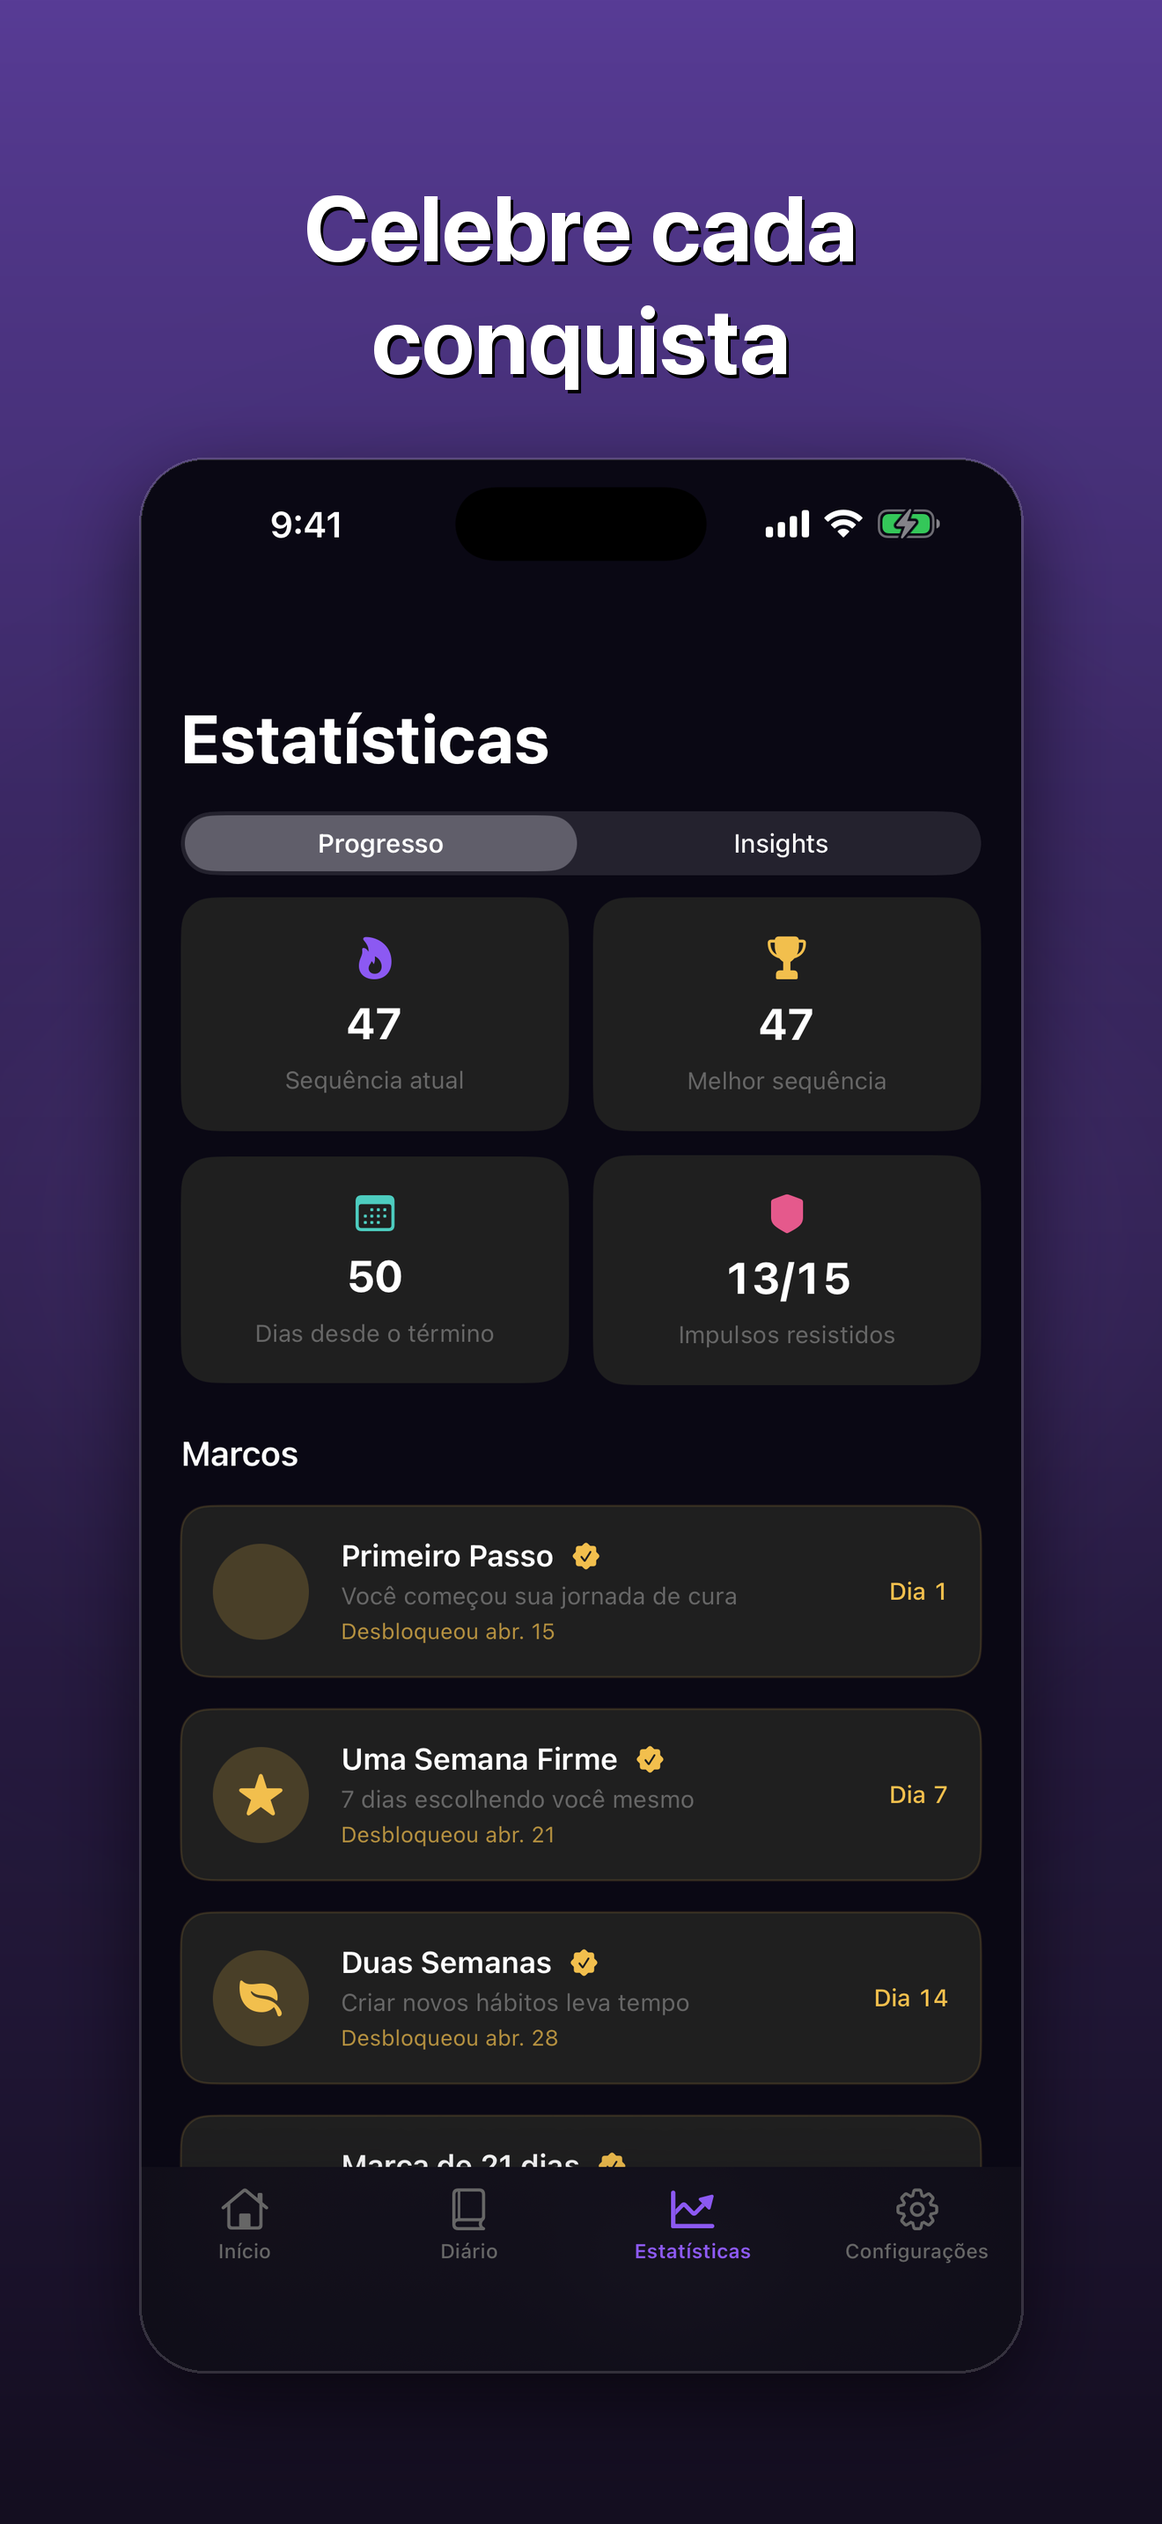
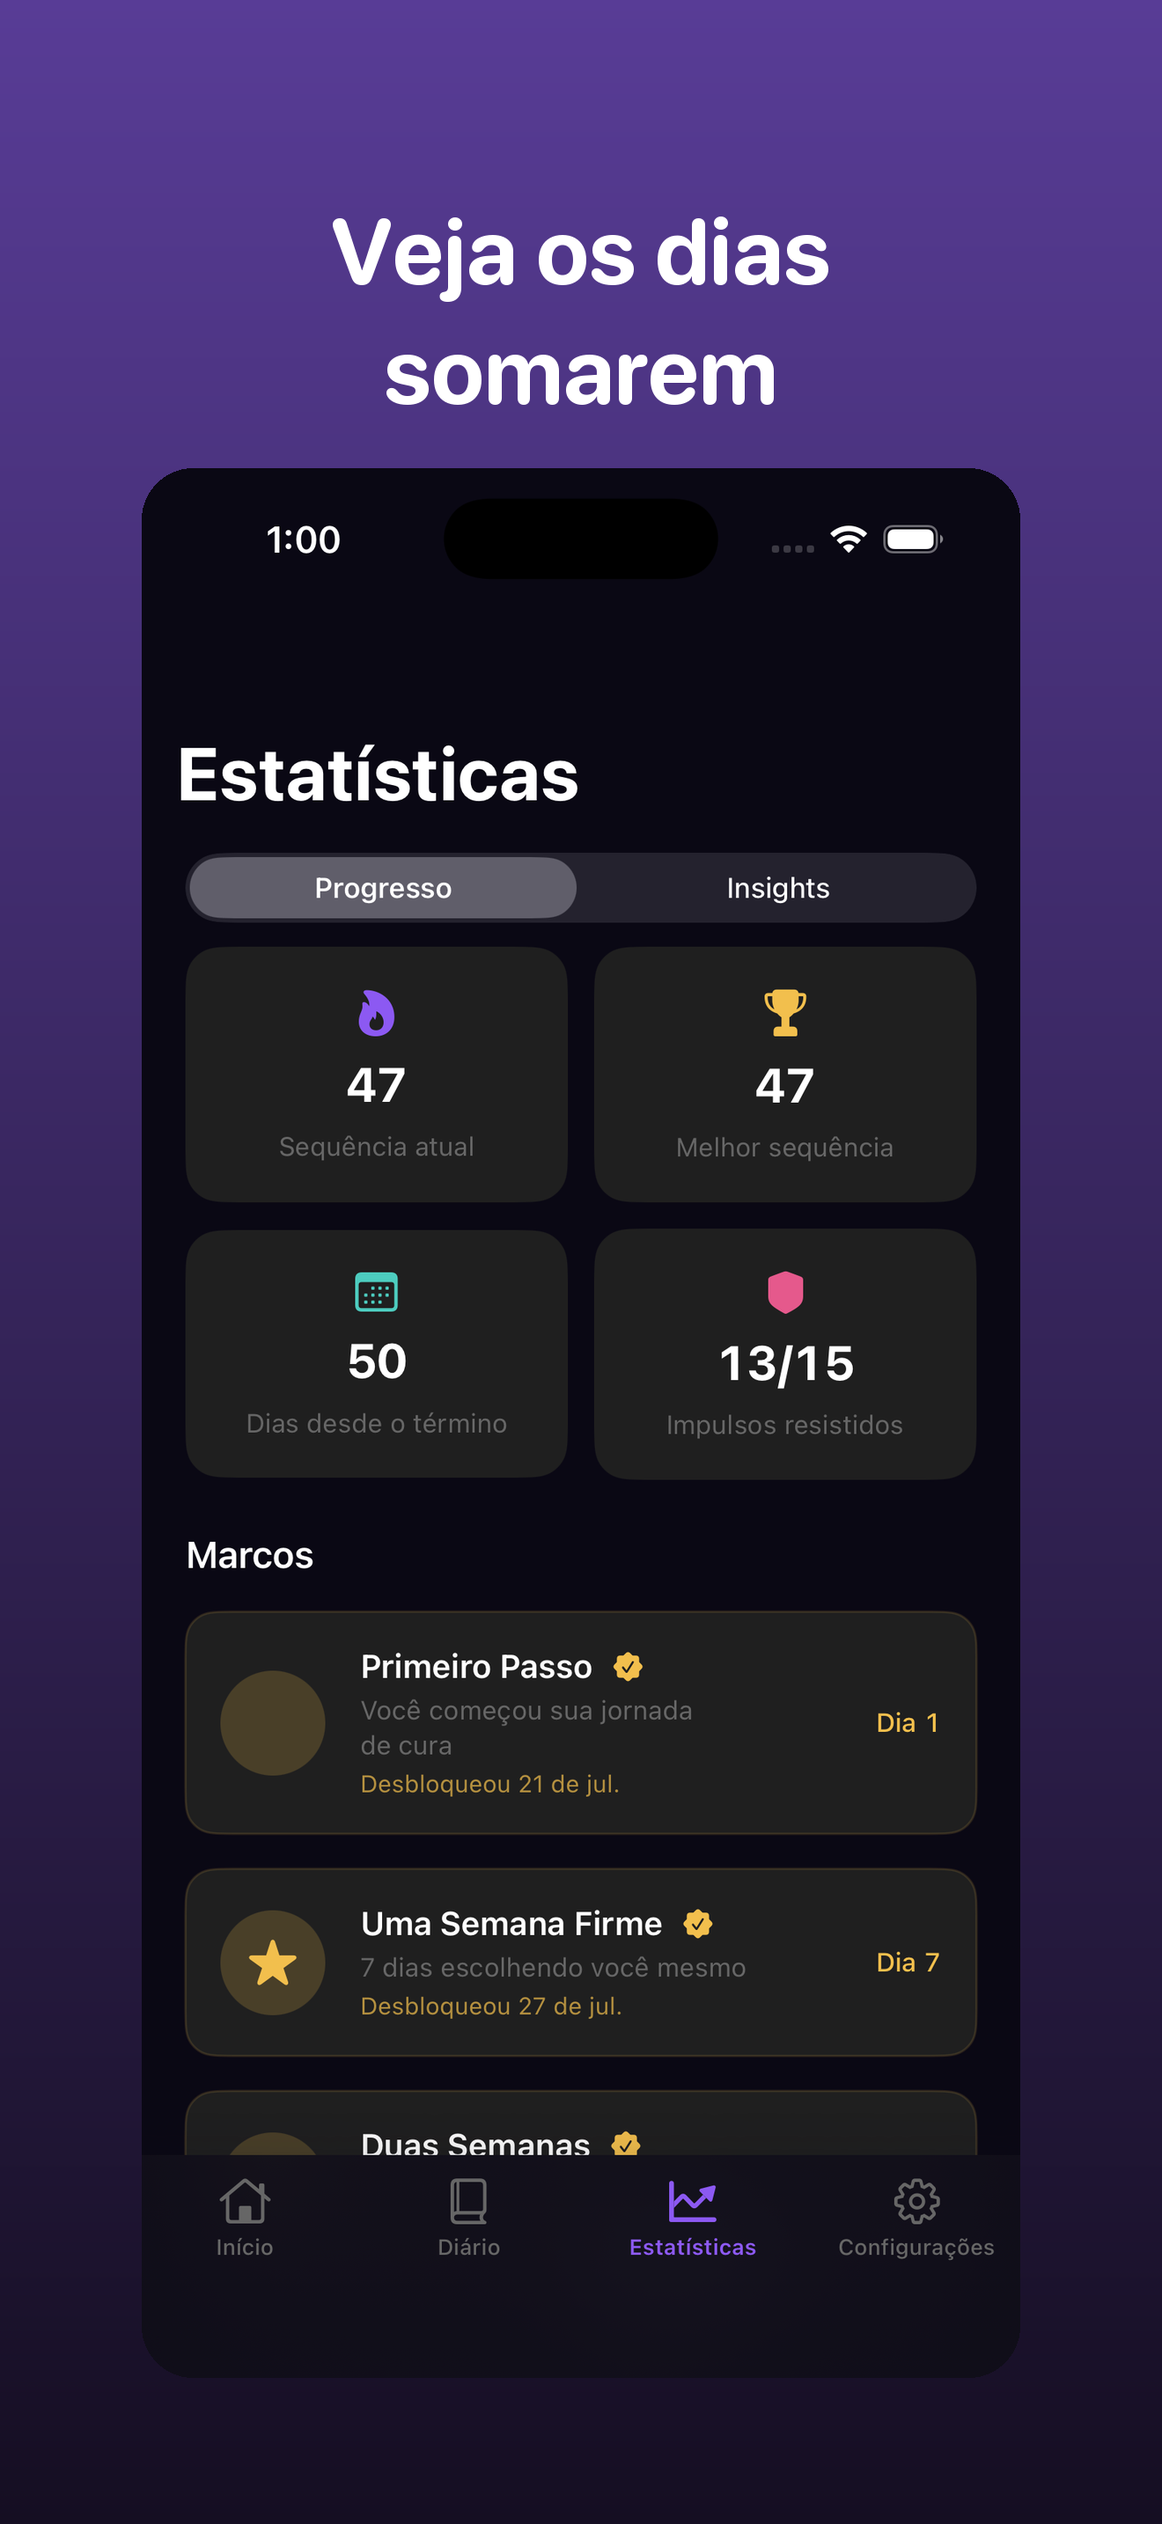
1.4 (build 12): 7-day free trial, review prompts that actually fire, new ar/pt-BR artwork
Trial: all 525 introductory offers (3 products x 175 territories) moved from
THREE_DAYS to ONE_WEEK in App Store Connect. Every US trial to date cancelled on
day 3 — the exact day the trial ended — while Heal's first milestone is day 7, so
the trial was expiring before the product could prove anything. The paywall reads
the trial length live from StoreKit, so no copy changes were needed.

Review prompts: badgeUnlocked and levelUp were added to ReviewPrompter.Moment in
1.3 but never called from anywhere — two of six moments were dead code. Both are
now wired into GamificationOverlay, which is mounted on the tab bar and therefore
has a stable scene to present in. The SOS and journal call sites asked for a review
immediately before dismissing themselves, and requestReview is a no-op while the
presenting scene is going away; they now defer past the dismissal. The global floor
dropped from streakDays >= 2 to >= 1, which was disqualifying earned moments users
hit on their first day. Decisions are logged and counted locally (Log.reviews plus
a DEBUG Settings row) so "the prompts never fire" is answerable rather than a guess.
No field telemetry was added — that would mean a third-party analytics SDK.

Screenshots: ar-SA and pt-BR drew 152 impressions and zero page views over 14 days
with headlines that stated a mood rather than the proposition. Both sets recaptured
and recomposited with concrete copy. compose.py now shapes Arabic (arabic_reshaper
[…]

diff --git a/HealNoContact/Services/ReviewPrompter.swift b/HealNoContact/Services/ReviewPrompter.swift
@@ -4,9 +4,18 @@ import SwiftUI
 
 /// Decides *when* to ask for an App Store rating. iOS already throttles to ~3 prompts a year;
 /// this adds our own judgment: only after a genuinely good moment (resisted urge, milestone),
-/// never in the first two days, and never more than once every 14 days.
+/// never on a user's very first day, and never more than once every 14 days.
+///
+/// Instrumentation note (2026-09-05): after five weeks live the app had exactly one rating,
+/// so every decision this type makes is now logged and counted locally. `Log.reviews` shows
+/// the decision on a device you control; `diagnostics` exposes the running tally so a DEBUG
+/// build can display it. There is deliberately no field telemetry here — measuring this on
+/// other people's devices would mean adding a third-party analytics SDK, which we have not.
 enum ReviewPrompter {
     private static let lastPromptKey = "review.lastPromptDate"
+    private static let attemptsKey   = "review.attempts"
+    private static let firedKey      = "review.fired"
+    private static let lastSkipKey   = "review.lastSkipReason"
     private static let minDaysBetweenPrompts = 14
 
     enum Moment {
@@ -16,11 +25,51 @@ enum ReviewPrompter {
         case badgeUnlocked(rarity: String)
         case journalEntries(count: Int)
         case levelUp(level: Int)
+
+        var label: String {
+            switch self {
+            case .resistedUrge:            return "resistedUrge"
+            case .milestone(let d):        return "milestone(\(d))"
+            case .checkInStreak(let d):    return "checkInStreak(\(d))"
+            case .badgeUnlocked(let r):    return "badgeUnlocked(\(r))"
+            case .journalEntries(let n):   return "journalEntries(\(n))"
+            case .levelUp(let l):          return "levelUp(\(l))"
+            }
+        }
+    }
+
+    /// Why a prompt did or didn't happen. Recorded so "the prompts never fire" is a
+    /// question we can answer instead of guess at.
+    enum Outcome: String {
+        case requested          // we called requestReview (iOS may still suppress it)
+        case tooEarly           // user hasn't reached day 1 of a streak
+        case notWorthy          // moment didn't clear its own bar
+        case throttled          // inside our own 14-day window
+    }
+
+    /// The screenshot harness seeds a 47-day streak, which is by definition a worthy
+    /// moment — so every capture run got a rating dialog over the artwork. Never ask
+    /// during a demo capture.
+    private static var isDemoCapture: Bool {
+        UserDefaults.standard.bool(forKey: "seedDemo")
     }
 
     @MainActor
     static func maybeRequest(_ request: RequestReviewAction, moment: Moment, streakDays: Int) {
-        guard streakDays >= 2 else { return }
+        guard !isDemoCapture else { return }
+        let d = UserDefaults.standard
+        d.set(d.integer(forKey: attemptsKey) + 1, forKey: attemptsKey)
+
+        func skip(_ outcome: Outcome) {
+            d.set(outcome.rawValue, forKey: lastSkipKey)
+            Log.reviews.debug("skip \(moment.label, privacy: .public) — \(outcome.rawValue, privacy: .public)")
+        }
+
+        // Day 0 is too soon to ask, but day 1 is not: most people who ever come back
+        // come back within a day or two, and the old `>= 2` floor silently disqualified
+        // every earned moment they hit before then.
+        guard streakDays >= 1 else { return skip(.tooEarly) }
+
         let worthy: Bool
         switch moment {
         case .resistedUrge:            worthy = streakDays >= 3
@@ -30,13 +79,39 @@ enum ReviewPrompter {
         case .journalEntries(let n):   worthy = [5, 10, 25, 50].contains(n)
         case .levelUp(let level):      worthy = level >= 3
         }
-        guard worthy else { return }
-        if let last = UserDefaults.standard.object(forKey: lastPromptKey) as? Date,
+        guard worthy else { return skip(.notWorthy) }
+
+        if let last = d.object(forKey: lastPromptKey) as? Date,
            Calendar.current.dateComponents([.day], from: last, to: .now).day ?? 0 < minDaysBetweenPrompts {
-            return
+            return skip(.throttled)
         }
-        UserDefaults.standard.set(Date.now, forKey: lastPromptKey)
+
+        d.set(Date.now, forKey: lastPromptKey)
+        d.set(d.integer(forKey: firedKey) + 1, forKey: firedKey)
+        Log.reviews.notice("requesting review after \(moment.label, privacy: .public)")
         request()
+    }
+
+    /// Asks *after* the current screen has finished going away. `requestReview` is a no-op
+    /// when the presenting scene is being dismissed, which is exactly what happened at the
+    /// two best moments we had: the SOS success overlay and the journal save, both of which
+    /// called this and then immediately dismissed themselves.
+    @MainActor
+    static func requestAfterDismissal(_ request: RequestReviewAction, moment: Moment,
+                                      streakDays: Int, delay: Duration = .milliseconds(900)) {
+        Task { @MainActor in
+            try? await Task.sleep(for: delay)
+            maybeRequest(request, moment: moment, streakDays: streakDays)
+        }
+    }
+
+    /// Local tally for debugging why prompts do or don't appear. Not sent anywhere.
+    static var diagnostics: (attempts: Int, fired: Int, lastSkip: String?, lastPrompt: Date?) {
+        let d = UserDefaults.standard
+        return (d.integer(forKey: attemptsKey),
+                d.integer(forKey: firedKey),
+                d.string(forKey: lastSkipKey),
+                d.object(forKey: lastPromptKey) as? Date)
     }
 
     /// App Store "write a review" deep link for explicit, user-initiated rating.

diff --git a/HealNoContact/Views/Gamification/GamificationOverlay.swift b/HealNoContact/Views/Gamification/GamificationOverlay.swift
@@ -1,12 +1,18 @@
 import SwiftUI
+import SwiftData
+import StoreKit
 
 /// App-wide celebration layer: a "+N XP" toast, a badge-unlock toast, and the level-up
 /// modal — shown wherever the XP was earned (check-in sheet, journal, SOS, dashboard).
 struct GamificationOverlay: ViewModifier {
     @Environment(GameificationService.self) private var game
+    @Environment(\.requestReview) private var requestReview
+    @Query private var profiles: [UserProfile]
     @State private var toast: Toast?
     @State private var toastTask: Task<Void, Never>?
     @State private var levelUp: LevelUpAward?
+
+    private var streakDays: Int { profiles.first?.currentStreakDays ?? 0 }
 
     private struct Toast: Equatable {
         let icon: String
@@ -39,6 +45,13 @@ struct GamificationOverlay: ViewModifier {
                            title: String(localized: "Badge unlocked: \(badge.title)"),
                            subtitle: badge.details,
                            tint: Color.theme.healTeal), seconds: 3.5)
+                // Ask for a rating here rather than at the earning site: this overlay is
+                // mounted on the tab bar, which never goes away, so the prompt has a stable
+                // scene to present in. Deferred until the toast has been read.
+                ReviewPrompter.requestAfterDismissal(requestReview,
+                                                     moment: .badgeUnlocked(rarity: badge.rarity.rawValue),
+                                                     streakDays: streakDays,
+                                                     delay: .seconds(4))
                 game.recentBadge = nil
             }
             .onChange(of: game.levelUpAward) { _, award in
@@ -50,8 +63,12 @@ struct GamificationOverlay: ViewModifier {
                     newLevel: award.newLevel,
                     levelName: game.userGamification?.levelName ?? ""
                 ) {
+                    let reached = award.newLevel
                     levelUp = nil
                     game.levelUpAward = nil
+                    ReviewPrompter.requestAfterDismissal(requestReview,
+                                                         moment: .levelUp(level: reached),
+                                                         streakDays: streakDays)
                 }
                 .presentationBackground(.clear)
             }

diff --git a/HealNoContact/Views/Settings/SettingsView.swift b/HealNoContact/Views/Settings/SettingsView.swift
@@ -207,6 +207,18 @@ struct SettingsView: View {
                         Label("Write a review", systemImage: "square.and.pencil")
                             .foregroundStyle(Color.theme.healGold)
                     }
+
+                    #if DEBUG
+                    // Local-only tally so "the review prompts never fire" is checkable on
+                    // a device rather than inferred from the App Store rating count.
+                    let diag = ReviewPrompter.diagnostics
+                    SettingsRow(
+                        icon: "ladybug.fill",
+                        label: "Review prompts (debug)",
+                        value: "\(diag.fired)/\(diag.attempts) · \(diag.lastSkip ?? "—")",
+                        color: Color.theme.textSecondary
+                    )
+                    #endif
                 }
                 .listRowBackground(Color.theme.cardBackground)
             }

diff --git a/HealNoContact/Views/Emergency/EmergencyView.swift b/HealNoContact/Views/Emergency/EmergencyView.swift
@@ -170,8 +170,10 @@ struct EmergencyView: View {
             if showCompleted {
                 EmergencyCompletedOverlay {
                     // A resisted urge is the best moment to ask for a rating (throttled).
-                    ReviewPrompter.maybeRequest(requestReview, moment: .resistedUrge,
-                                                streakDays: profile?.currentStreakDays ?? 0)
+                    // Must be requested AFTER this view goes away — iOS silently drops
+                    // requestReview when the presenting scene is being dismissed.
+                    ReviewPrompter.requestAfterDismissal(requestReview, moment: .resistedUrge,
+                                                         streakDays: profile?.currentStreakDays ?? 0)
                     dismiss()
                 }
                 .transition(.scale.combined(with: .opacity))

diff --git a/HealNoContact/Views/Journal/JournalEditorView.swift b/HealNoContact/Views/Journal/JournalEditorView.swift
@@ -217,8 +217,10 @@ struct JournalEditorView: View {
             game.checkMilestoneBadges(streakDays: profile?.currentStreakDays ?? 0,
                                       journalEntryCount: count + 1,
                                       moodCheckInCount: 0)
-            ReviewPrompter.maybeRequest(requestReview, moment: .journalEntries(count: count + 1),
-                                        streakDays: profile?.currentStreakDays ?? 0)
+            // Deferred: this editor dismisses itself 0.35s from here, and requestReview
+            // is a no-op while the presenting scene is on its way out.
+            ReviewPrompter.requestAfterDismissal(requestReview, moment: .journalEntries(count: count + 1),
+                                                 streakDays: profile?.currentStreakDays ?? 0)
         }
 
         HapticService.notification(.success)

diff --git a/HealNoContact/Services/Log.swift b/HealNoContact/Services/Log.swift
@@ -7,4 +7,5 @@ enum Log {
 
     static let app = Logger(subsystem: subsystem, category: "app")
     static let purchases = Logger(subsystem: subsystem, category: "purchases")
+    static let reviews   = Logger(subsystem: subsystem, category: "reviews")
 }

diff --git a/AppStore/screenshots/compose.py b/AppStore/screenshots/compose.py
@@ -9,9 +9,17 @@ locales match the existing sets exactly.
 Lives in the repo on purpose: the previous compositor lived in /tmp and was wiped,
 which is why the Aug 31 checkup had to rebuild it from scratch.
 
+Script support (added 2026-09-05): PIL has no HarfBuzz here, so Arabic came out as
+disconnected left-to-right glyphs — which is how the shipped ar-SA set ended up with a
+stray em dash floating on the wrong side of the headline. Arabic is now shaped with
+arabic_reshaper + python-bidi and drawn with SF Arabic Rounded, which matches the
+rounded face used for Latin. Thai combining marks are still not safe through PIL; the
+th set was built with the old CoreText pipeline and should be left alone.
+
 Usage:  python3 compose.py <raw.png> <out.png> "Line one" ["Line two"]
+        python3 compose.py --locale ar raw_ar/01-streak.png out.png "..." "..."
 """
-import sys
+import sys, unicodedata
 from PIL import Image, ImageDraw, ImageFont
 
 W, H          = 1320, 2868
@@ -29,9 +37,30 @@ FONT_CANDIDATES = [
     "/System/Library/Fonts/SFNS.ttf",
     "/System/Library/Fonts/HelveticaNeue.ttc",
 ]
+ARABIC_FONT_CANDIDATES = [
+    "/System/Library/Fonts/SFArabicRounded.ttf",
+    "/System/Library/Fonts/SFArabic.ttf",
+    "/System/Library/Fonts/GeezaPro.ttc",
+]
 
-def load_font(size):
-    for p in FONT_CANDIDATES:
+def is_arabic(text):
+    return any("ARABIC" in unicodedata.name(ch, "") for ch in text)
+
+def shape(text):
+    """Arabic needs contextual shaping + bidi reordering before PIL can draw it.
+    Without this every letter renders in its isolated form, left to right."""
+    if not is_arabic(text):
+        return text
+    try:
+        import arabic_reshaper
+        from bidi.algorithm import get_display
+        return get_display(arabic_reshaper.reshape(text))
+    except ImportError:
+        raise SystemExit("ABORT: Arabic headline needs `pip3 install arabic-reshaper "
+                         "python-bidi`. Refusing to emit mis-shaped Arabic artwork.")
+
+def load_font(size, arabic=False):
+    for p in (ARABIC_FONT_CANDIDATES if arabic else FONT_CANDIDATES):
         try:
             f = ImageFont.truetype(p, size)
             try: f.set_variation_by_name("Bold")     # variable SF fonts
@@ -56,15 +85,15 @@ def rounded(img, radius):
     out.putalpha(mask)
     return out
 
-def fit_line(draw, text, font_size, max_w):
+def fit_line(draw, text, font_size, max_w, arabic=False):
     """Shrink until the line fits the safe width."""
     size = font_size
     while size > 40:
-        f = load_font(size)
+        f = load_font(size, arabic)
         if draw.textlength(text, font=f) <= max_w:
             return f
         size -= 4
-    return load_font(size)
+    return load_font(size, arabic)
 
 def compose(raw_path, out_path, lines):
     canvas = gradient()
@@ -80,9 +109,11 @@ def compose(raw_path, out_path, lines):
     d = ImageDraw.Draw(canvas)
     safe_w = W - 2 * 120
     for i, line in enumerate(lines[:2]):
-        f = fit_line(d, line, FONT_SIZE, safe_w)
-        w = d.textlength(line, font=f)
-        d.text(((W - w) / 2, LINE1_TOP + i * LINE_STEP), line, font=f, fill=(255, 255, 255))
+        ar = is_arabic(line)
+        drawn = shape(line)
+        f = fit_line(d, drawn, FONT_SIZE, safe_w, ar)
+        w = d.textlength(drawn, font=f)
+        d.text(((W - w) / 2, LINE1_TOP + i * LINE_STEP), drawn, font=f, fill=(255, 255, 255))
     canvas.save(out_path)
     return out_path
 
